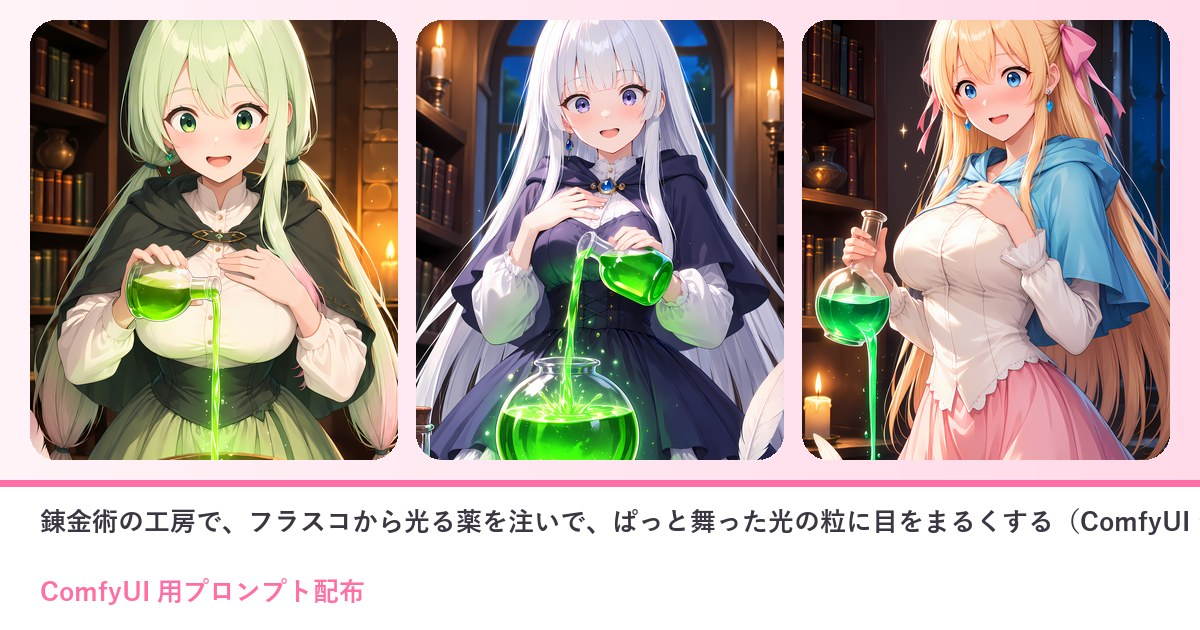
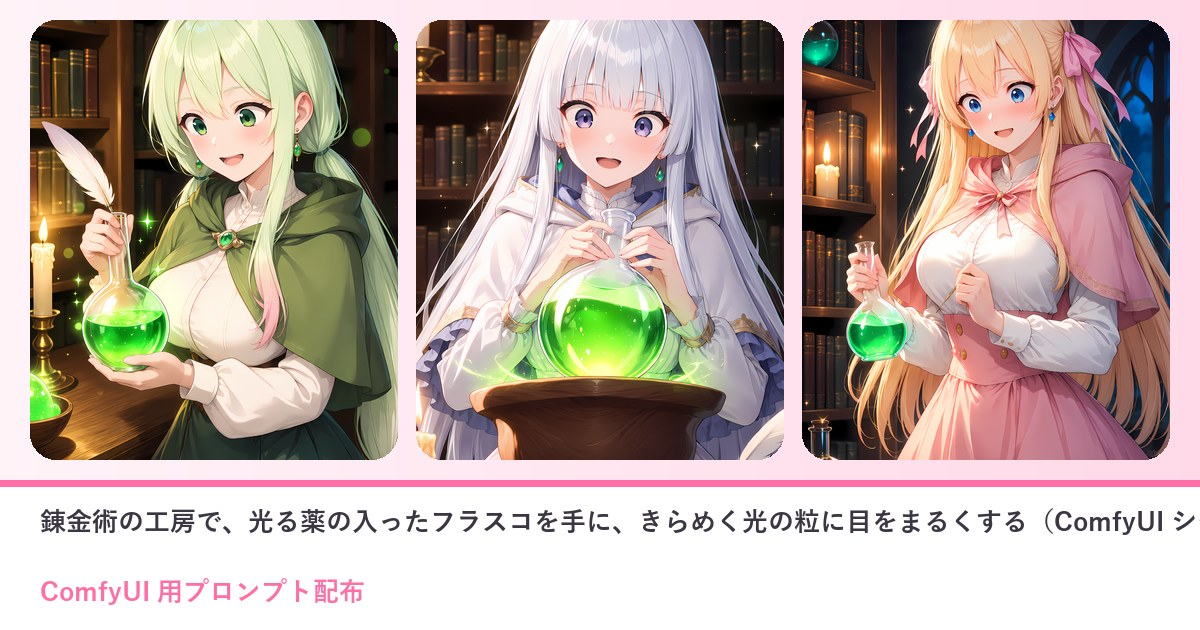
11/20 錬金術の配布ページ＝注ぐのをやめた文で3人の作例を焼き直し（るぴちゃん再生成 790247・フラスコの胴から薬が出る破綻）

diff --git a/prompts/2026-11-20-comfy-a07axycy.html b/prompts/2026-11-20-comfy-a07axycy.html
@@ -3,17 +3,17 @@
 <head>
 <meta charset="UTF-8"><meta name="robots" content="noindex, nofollow, noarchive"><meta name="referrer" content="strict-origin">
 <meta name="viewport" content="width=device-width, initial-scale=1">
-<title>錬金術の工房で、フラスコから光る薬を注いで、ぱっと舞った光の粒に目をまるくする（ComfyUI シーンのプロンプト）｜ひみつの眠り姫</title>
-<meta name="description" content="ComfyUI（Anima）に貼るだけで、ファンタジーの錬金術師の一枚に。古い本と薬びんの棚に囲まれた、ろうそくの灯る夜の工房で、フードつきのケープの女の子が、丸底フラスコを傾けて光る薬を鉢に注ぎ、ぱっと舞い上がった光の">
-<meta property="og:title" content="錬金術の工房で、フラスコから光る薬を注いで、ぱっと舞った光の粒に目をまるくする（ComfyUI シーンのプロンプト）｜ひみつの眠り姫">
-<meta property="og:description" content="ComfyUI（Anima）に貼るだけで、ファンタジーの錬金術師の一枚に。古い本と薬びんの棚に囲まれた、ろうそくの灯る夜の工房で、フードつきのケープの女の子が、丸底フラスコを傾けて光る薬を鉢に注ぎ、ぱっと舞い上がった光の">
+<title>錬金術の工房で、光る薬の入ったフラスコを手に、きらめく光の粒に目をまるくする（ComfyUI シーンのプロンプト）｜ひみつの眠り姫</title>
+<meta name="description" content="ComfyUI（Anima）に貼るだけで、ファンタジーの錬金術師の一枚に。古い本と薬びんの棚に囲まれた、ろうそくの灯る夜の工房で、フードつきのケープの女の子が、緑に光る薬の入った丸底フラスコを手に取って見つめ、まわりにき">
+<meta property="og:title" content="錬金術の工房で、光る薬の入ったフラスコを手に、きらめく光の粒に目をまるくする（ComfyUI シーンのプロンプト）｜ひみつの眠り姫">
+<meta property="og:description" content="ComfyUI（Anima）に貼るだけで、ファンタジーの錬金術師の一枚に。古い本と薬びんの棚に囲まれた、ろうそくの灯る夜の工房で、フードつきのケープの女の子が、緑に光る薬の入った丸底フラスコを手に取って見つめ、まわりにき">
 <meta property="og:type" content="article">
 <meta property="og:url" content="https://himitsu-nemurihime.github.io/prompts/2026-11-20-comfy-a07axycy.html">
 <meta property="og:image" content="https://himitsu-nemurihime.github.io/prompts/img/2026-11-20-comfy-a07axycy/og.jpg">
 <meta property="og:image:width" content="1200"><meta property="og:image:height" content="630">
 <meta name="twitter:card" content="summary_large_image">
-<meta name="twitter:title" content="錬金術の工房で、フラスコから光る薬を注いで、ぱっと舞った光の粒に目をまるくする（ComfyUI シーンのプロンプト）｜ひみつの眠り姫">
-<meta name="twitter:description" content="ComfyUI（Anima）に貼るだけで、ファンタジーの錬金術師の一枚に。古い本と薬びんの棚に囲まれた、ろうそくの灯る夜の工房で、フードつきのケープの女の子が、丸底フラスコを傾けて光る薬を鉢に注ぎ、ぱっと舞い上がった光の">
+<meta name="twitter:title" content="錬金術の工房で、光る薬の入ったフラスコを手に、きらめく光の粒に目をまるくする（ComfyUI シーンのプロンプト）｜ひみつの眠り姫">
+<meta name="twitter:description" content="ComfyUI（Anima）に貼るだけで、ファンタジーの錬金術師の一枚に。古い本と薬びんの棚に囲まれた、ろうそくの灯る夜の工房で、フードつきのケープの女の子が、緑に光る薬の入った丸底フラスコを手に取って見つめ、まわりにき">
 <meta name="twitter:image" content="https://himitsu-nemurihime.github.io/prompts/img/2026-11-20-comfy-a07axycy/og.jpg">
 <meta name="theme-color" content="#FFF3F8">
 <link rel="preconnect" href="https://fonts.googleapis.com">
@@ -68,17 +68,17 @@
 @media(max-width:560px){.ps-ba{grid-template-columns:1fr}.ps-ba .arr{transform:rotate(90deg);text-align:center}.ps-vars,.ps-vars tbody,.ps-vars tr,.ps-vars th,.ps-vars td{display:block;width:auto;white-space:normal}.ps-vars tr:first-child{display:none}.ps-vars tr{border-bottom:1px solid var(--ps-line);padding:4px 0}.ps-vars th,.ps-vars td{border:0;padding:6px 12px}}
 .ps{overflow-wrap:anywhere}.ps-vars td,.ps-vars th{overflow-wrap:anywhere}.ps img{max-width:100%}
 </style>
-<!--ps-meta {"date": "2026-11-20", "title": "錬金術の工房で、フラスコから光る薬を注いで、ぱっと舞った光の粒に目をまるくする（ComfyUI シーンのプロンプト）", "kind": "comfy", "nsfw": false, "summary": "錬金術の工房で、フラスコから光る薬を注いで目をまるくする一枚。LoRA なしでも貼るだけで綺麗に出ます。", "thumb": "img/2026-11-20-comfy-a07axycy/ex1.webp"}-->
+<!--ps-meta {"date": "2026-11-20", "title": "錬金術の工房で、光る薬の入ったフラスコを手に、きらめく光の粒に目をまるくする（ComfyUI シーンのプロンプト）", "kind": "comfy", "nsfw": false, "summary": "錬金術の工房で、光る薬のフラスコを手に目をまるくする一枚。LoRA なしでも貼るだけで綺麗に出ます。", "thumb": "img/2026-11-20-comfy-a07axycy/ex1.webp"}-->
 </head>
 <body>
 <div class="sky"></div>
 <main class="wrap">
-<section class="sec"><div class="sec-head"><h2>錬金術の工房で、フラスコから光る薬を注いで、ぱっと舞った光の粒に目をまるくする（ComfyUI シーンのプロンプト）</h2><p>ひみつの眠り姫のプロンプト配布</p></div>
-<div class="ps"><p><span class="ps-badge">ComfyUI 用</span><span class="ps-badge">2026-11-20</span></p><p class="ps-lead">ComfyUI（Anima）に貼るだけで、ファンタジーの錬金術師の一枚に。古い本と薬びんの棚に囲まれた、ろうそくの灯る夜の工房で、フードつきのケープの女の子が、丸底フラスコを傾けて光る薬を鉢に注ぎ、ぱっと舞い上がった光の粒に、目をまるくしてうれしそうに笑います。薬の光と光の粒、うしろの棚のボケまで出ます。LoRA がある人とない人の2通りの書き方を載せてあります。</p><nav class="ps-toc" aria-label="目次"><p>📑 目次</p><ol><li><a href="#sec1">作例</a></li><li><a href="#sec2">3人のおしゃべり（錬金術の工房）</a></li><li><a href="#sec3">使い方（3ステップ）</a></li><li><a href="#sec4">プロンプト</a></li><li><a href="#sec5">必要なもの（ComfyUI）</a></li><li><a href="#sec6">メモ</a></li><li><a href="#sec7">配布ルール</a></li></ol></nav><h2 id="sec1">作例</h2><div class="ps-ex"><figure><img src="img/2026-11-20-comfy-a07axycy/ex1.webp" alt="ティルナの LoRA で焼いた一枚（A のプロンプト）。夜の錬金術の工房で、若草色の長い髪を低い所で二つに結び（毛先がピンク）、深緑のフードつきケープ。片手でフラスコを傾けて緑に光る薬を木のすり鉢に注ぎ、もう片手は胸に当てて笑う。うしろに本棚とろうそく、手前に羽ペン" loading="lazy"><figcaption>ティルナの LoRA で焼いた一枚（A のプロンプト）。夜の錬金術の工房で、若草色の長い髪を低い所で二つに結び（毛先がピンク）、深緑のフードつきケープ。片手でフラスコを傾けて緑に光る薬を木のすり鉢に注ぎ、もう片手は胸に当てて笑う。うしろに本棚とろうそく、手前に羽ペン</figcaption></figure><figure><img src="img/2026-11-20-comfy-a07axycy/ex2.webp" alt="同じプロンプトをリリアの LoRA で。銀白の長い髪にぱっつん前髪、すみれ色の瞳、紺のフードつきケープ。フラスコを傾けて、丸いガラスの大きな瓶に緑の薬を注ぐ。うしろに夜の青い窓と本棚、両わきにろうそく" loading="lazy"><figcaption>同じプロンプトをリリアの LoRA で。銀白の長い髪にぱっつん前髪、すみれ色の瞳、紺のフードつきケープ。フラスコを傾けて、丸いガラスの大きな瓶に緑の薬を注ぐ。うしろに夜の青い窓と本棚、両わきにろうそく</figcaption></figure><figure><img src="img/2026-11-20-comfy-a07axycy/ex3.webp" alt="同じプロンプトをセフィリアの LoRA で。金色の長い髪にピンクのリボン、水色のフードつきケープにピンクのスカート。フラスコから木の鉢に緑の薬を注いで、もう片手は胸に。左にろうそくと羽ペン、うしろに本棚" loading="lazy"><figcaption>同じプロンプトをセフィリアの LoRA で。金色の長い髪にピンクのリボン、水色のフードつきケープにピンクのスカート。フラスコから木の鉢に緑の薬を注いで、もう片手は胸に。左にろうそくと羽ペン、うしろに本棚</figcaption></figure></div><p style="font-size:.82rem;color:var(--ps-ink)">※作例の画像の転載・保存しての再配布はご遠慮ください。</p><h2 id="sec2">3人のおしゃべり（錬金術の工房）</h2><div class="ps-chat"><img src="img/2026-11-20-comfy-a07axycy/talk_lilia_shy.webp" alt="リリア" loading="lazy"><div><div class="who">リリア</div><div class="bub">……フラスコの中で、光る薬がゆっくり回っています。きれいです</div></div></div><div class="ps-chat r"><img src="img/2026-11-20-comfy-a07axycy/talk_sefi_normal.webp" alt="セフィリア" loading="lazy"><div><div class="who">セフィリア</div><div class="bub">ここは、わたくしたちの錬金術の工房なのです。今日の調合係は、ティルナにお任せするのです</div></div></div><div class="ps-chat r"><img src="img/2026-11-20-comfy-a07axycy/talk_tiru_happy.webp" alt="ティルナ" loading="lazy"><div><div class="who">ティルナ</div><div class="bub">まかせて！ この光る薬を、フラスコからとくとく注いで……わっ、光の粒がぱあって舞った！</div></div></div><div class="ps-chat"><img src="img/2026-11-20-comfy-a07axycy/talk_lilia_shy.webp" alt="リリア" loading="lazy"><div><div class="who">リリア</div><div class="bub">……ティルナちゃん、レシピの分量は、見ていましたか</div></div></div><div class="ps-chat r"><img src="img/2026-11-20-comfy-a07axycy/talk_tiru_happy.webp" alt="ティルナ" loading="lazy"><div><div class="who">ティルナ</div><div class="bub">見てない！ でも、こんなにきらきらしてるんだから、成功だよ！</div></div></div><div class="ps-chat r"><img src="img/2026-11-20-comfy-a07axycy/talk_sefi_normal.webp" alt="セフィリア" loading="lazy"><div><div class="who">セフィリア</div><div class="bub">作例のティルナは、深緑のフードつきケープ。片手で緑の薬をすり鉢にとくとく注いで、もう片手は胸に当てて笑っているのです</div></div></div><div class="ps-chat"><img src="img/2026-11-20-comfy-a07axycy/talk_lilia_shy.webp" alt="リリア" loading="lazy"><div><div class="who">リリア</div><div class="bub">……今日の配布は、ComfyUI（Anima）に貼るだけで、この夜の工房の一枚になるシーンのプロンプトです</div></div></div><div class="ps-chat r"><img src="img/2026-11-20-comfy-a07axycy/talk_sefi_normal.webp" alt="セフィリア" loading="lazy"><div><div class="who">セフィリア</div><div class="bub">うちの子に合わせるときは、先頭の一行に髪と目の色を書くだけ。本棚もすり鉢も羽ペンも、文のほうにもう入っているのです</div></div></div><div class="ps-chat r"><img src="img/2026-11-20-comfy-a07axycy/talk_tiru_happy.webp" alt="ティルナ" loading="lazy"><div><div class="who">ティルナ</div><div class="bub">LoRA を作ってない子でも大丈夫！ 名前の代わりに見た目を書く版が、ページの下にあるの！</div></div></div><div class="ps-chat"><img src="img/2026-11-20-comfy-a07axycy/talk_lilia_shy.webp" alt="リリア" loading="lazy"><div><div class="who">リリア</div><div class="bub">……同じ文で焼いたわたしは、紺のケープでした。フラスコを傾けて、丸いガラスの大きな瓶に注いでいました。うしろの窓は、夜の青です</div></div></div><div class="ps-chat r"><img src="img/2026-11-20-comfy-a07axycy/talk_sefi_normal.webp" alt="セフィリア" loading="lazy"><div><div class="who">セフィリア</div><div class="bub">わたくしは水色のケープに、ピンクのスカート。木の鉢に注いでいたのです。すぐそばで、ろうそくが灯っていたのです</div></div></div><div class="ps-chat r"><img src="img/2026-11-20-comfy-a07axycy/talk_tiru_thinking.webp" alt="ティルナ" loading="lazy"><div><div class="who">ティルナ</div><div class="bub">ねえ、この薬って、飲んだら何になるのかな？ セフィー、ひと口どう？</div></div></div><div class="ps-chat r"><img src="img/2026-11-20-comfy-a07axycy/talk_sefi_normal.webp" alt="セフィリア" loading="lazy"><div><div class="who">セフィリア</div><div class="bub">えんりょするのです。……でも三人で、ちがう色の薬を一本ずつ作って並べるのは、賛成なのです。あなたの子の薬も、となりに並べたいのです</div></div></div><h2 id="sec3">使い方（3ステップ）</h2><ol class="ps-steps"><li>ComfyUI で Anima のモデルを読み、基本の画像生成（テキストから画像）の画面にする</li><li>下の A（LoRA なし）か B（LoRA あり）のポジティブと、ネガティブをワンタップでコピーして貼る</li><li>「推奨値」の大きさ・steps・CFG にして生成する（できれば 1.5 倍の hires fix も）</li></ol><h2 id="sec4">プロンプト</h2><div class="ps-note" style="margin-bottom:12px"><b>変えるのは1行目の色の付いたところだけ</b>（先頭の <code>1girl, solo</code> などはそのまま）<ul><li>使うプロンプトは2通り＝<b>A. LoRA を持っていない人</b>／<b>B. 自分のキャラの LoRA を持っている人</b>。どちらも丸ごとコピーして貼るだけ</li><li>A は<b>そのまま</b>でも綺麗な女の子で出ます。自分のキャラにするなら1行目の髪の色・髪型・目の色を書き換えるだけ</li><li>B は1行目の <code>your_lora_trigger</code> を自分の LoRA のトリガー語に置きかえるだけ（LoRA の強さは下の表）</li><li>2行目から下（シーン）と、ネガティブプロンプトは変えずにそのまま</li><li>🚫 版権キャラの名前・版権キャラの LoRA を入れて使うのは固く禁止です（下の「配布ルール」）</li></ul></div><h3 style="margin:14px 0 8px">A. LoRA を持っていない人（そのままでもOK）</h3><div class="ps-box"><button class="ps-copy" type="button" data-target="ps-prompt">📋 ワンタップでコピー</button><p style="margin:0 0 8px;font-size:.82rem;color:var(--ps-a)">ポジティブプロンプト</p><pre>1girl, solo, <mark class="ps-in" data-key="キャラの行">long hair, green hair, pink hair, gradient hair, green eyes, low twintails</mark>
-masterpiece, best quality, score_7, safe, cowboy shot, standing, alchemy, round-bottom flask, potion, glowing liquid, green liquid, pouring, bottle, holding bottle, hand on own chest, wide-eyed, smile, open mouth, blush, sparkle, hooded capelet, capelet, long sleeves, frilled skirt, earrings, bookshelf, shelf, mortar (bowl), quill, candle, indoors, night, magic, warm colors, color contrast, depth of field, bokeh, light particles</pre><textarea class="ps-copyarea" id="ps-prompt" readonly aria-hidden="true" tabindex="-1">1girl, solo, long hair, green hair, pink hair, gradient hair, green eyes, low twintails
-masterpiece, best quality, score_7, safe, cowboy shot, standing, alchemy, round-bottom flask, potion, glowing liquid, green liquid, pouring, bottle, holding bottle, hand on own chest, wide-eyed, smile, open mouth, blush, sparkle, hooded capelet, capelet, long sleeves, frilled skirt, earrings, bookshelf, shelf, mortar (bowl), quill, candle, indoors, night, magic, warm colors, color contrast, depth of field, bokeh, light particles</textarea></div><h3 style="margin:18px 0 8px">B. 自分のキャラの LoRA を持っている人</h3><div class="ps-box"><button class="ps-copy" type="button" data-target="ps-prompt-lora">📋 ワンタップでコピー</button><p style="margin:0 0 8px;font-size:.82rem;color:var(--ps-a)">ポジティブプロンプト（LoRA 用）</p><pre>masterpiece, best quality, score_7, year 2025, highres, absurdres, <mark class="ps-in" data-key="キャラの行">your_lora_trigger</mark>, 1girl, solo,
-cowboy shot, standing, alchemy, round-bottom flask, potion, glowing liquid, green liquid, pouring, bottle, holding bottle, hand on own chest, wide-eyed, smile, open mouth, blush, sparkle, hooded capelet, capelet, long sleeves, frilled skirt, earrings, bookshelf, shelf, mortar (bowl), quill, candle, indoors, night, magic, warm colors, color contrast, depth of field, bokeh, light particles</pre><textarea class="ps-copyarea" id="ps-prompt-lora" readonly aria-hidden="true" tabindex="-1">masterpiece, best quality, score_7, year 2025, highres, absurdres, your_lora_trigger, 1girl, solo,
-cowboy shot, standing, alchemy, round-bottom flask, potion, glowing liquid, green liquid, pouring, bottle, holding bottle, hand on own chest, wide-eyed, smile, open mouth, blush, sparkle, hooded capelet, capelet, long sleeves, frilled skirt, earrings, bookshelf, shelf, mortar (bowl), quill, candle, indoors, night, magic, warm colors, color contrast, depth of field, bokeh, light particles</textarea></div><table class="ps-vars" style="margin-top:10px"><tr><th>LoRA のつなぎ方</th><td colspan="2">Load Diffusion Model（Anima）のうしろに LoraLoaderModelOnly を1つ足す（CLIP にはつながない）</td></tr><tr><th>LoRA の強さ（strength_model）</th><td colspan="2">0.8〜0.9（作例は 0.85）</td></tr><tr><th>1行目</th><td colspan="2">your_lora_trigger を自分の LoRA のトリガー語に置きかえる（髪や目の色は LoRA が覚えているので書かなくてOK）</td></tr></table><div style="height:12px"></div><div class="ps-box"><button class="ps-copy" type="button" data-target="ps-negative-lora">📋 ワンタップでコピー</button><p style="margin:0 0 8px;font-size:.82rem;color:var(--ps-a)">ネガティブプロンプト（B 用）</p><pre>lowres, bad quality, worst quality, score_1, score_2, score_3, poorly drawn, flat color, sketch, jpeg artifacts, mutated, ugly, disfigured, long body, bad anatomy, bad hands, missing fingers, extra fingers, simple background, transparent background, blurry, furry, child, loli, chibi, baby face, signature, watermark, artist name, username, web address, patreon username, logo, detailed pupils, sparkling eyes, twinkling eyes, glowing pupils, glowing eyes, star-shaped pupils, colored highlight in pupil, pointy ears, elf ears, extra fingers, missing fingers, fused fingers, bad hands, deformed hands, extra arms, extra legs, text, letters, signboard, sign, banner, label, japanese text, numbers, mirror, reflection, window, glass reflection, 2girls, male, crowd, people, bag, umbrella, coat, hat, witch hat, outdoors, snow, christmas tree, cat, animal, fire, extra hands, disembodied limb, disembodied hand, chinese text, korean text, kanji, hiragana, katakana, calligraphy</pre><textarea class="ps-copyarea" id="ps-negative-lora" readonly aria-hidden="true" tabindex="-1">lowres, bad quality, worst quality, score_1, score_2, score_3, poorly drawn, flat color, sketch, jpeg artifacts, mutated, ugly, disfigured, long body, bad anatomy, bad hands, missing fingers, extra fingers, simple background, transparent background, blurry, furry, child, loli, chibi, baby face, signature, watermark, artist name, username, web address, patreon username, logo, detailed pupils, sparkling eyes, twinkling eyes, glowing pupils, glowing eyes, star-shaped pupils, colored highlight in pupil, pointy ears, elf ears, extra fingers, missing fingers, fused fingers, bad hands, deformed hands, extra arms, extra legs, text, letters, signboard, sign, banner, label, japanese text, numbers, mirror, reflection, window, glass reflection, 2girls, male, crowd, people, bag, umbrella, coat, hat, witch hat, outdoors, snow, christmas tree, cat, animal, fire, extra hands, disembodied limb, disembodied hand, chinese text, korean text, kanji, hiragana, katakana, calligraphy</textarea></div><div class="ps-note" style="margin-top:10px"><b>作例の絵（ポストの絵）は、この B のポジティブとネガティブで作りました</b>（<code>your_lora_trigger</code> のところに、その子の LoRA のトリガー語と見た目の語を入れただけ・語の順番もこのまま）。そのあと手だけを描き直す仕上げと 4K への拡大をしています。<br>ネガティブの「pointy ears、elf ears」は作例の子のために足した語です。自分のキャラに合わなければ消してOK。</div><div style="height:12px"></div><div class="ps-box"><button class="ps-copy" type="button" data-target="ps-negative">📋 ワンタップでコピー</button><p style="margin:0 0 8px;font-size:.82rem;color:var(--ps-a)">ネガティブプロンプト（A 用）</p><pre>worst quality, low quality, lowres, bad anatomy, bad hands, extra fingers, missing fingers, fused fingers, blurry, jpeg artifacts, text, watermark, signature, logo, extra person, multiple girls, cropped, out of frame, extra fingers, missing fingers, fused fingers, bad hands, deformed hands, extra arms, extra legs, text, letters, signboard, sign, banner, label, japanese text, numbers, mirror, reflection, window, glass reflection, 2girls, male, crowd, people, bag, umbrella, coat, hat, witch hat, outdoors, snow, christmas tree, cat, animal, fire, extra hands, disembodied limb, disembodied hand, chinese text, korean text, kanji, hiragana, katakana, calligraphy</pre><textarea class="ps-copyarea" id="ps-negative" readonly aria-hidden="true" tabindex="-1">worst quality, low quality, lowres, bad anatomy, bad hands, extra fingers, missing fingers, fused fingers, blurry, jpeg artifacts, text, watermark, signature, logo, extra person, multiple girls, cropped, out of frame, extra fingers, missing fingers, fused fingers, bad hands, deformed hands, extra arms, extra legs, text, letters, signboard, sign, banner, label, japanese text, numbers, mirror, reflection, window, glass reflection, 2girls, male, crowd, people, bag, umbrella, coat, hat, witch hat, outdoors, snow, christmas tree, cat, animal, fire, extra hands, disembodied limb, disembodied hand, chinese text, korean text, kanji, hiragana, katakana, calligraphy</textarea></div><h2 id="sec5">必要なもの（ComfyUI）</h2><div class="ps-note">🧩 <b>カスタムノードは使っていません</b>。LoRA が無くても大丈夫（A のプロンプト）。ComfyUI の基本の画像生成（テキストから画像）に、ポジティブ・ネガティブを貼って、下の推奨値にするだけです。LoRA を使う人は「LoraLoaderModelOnly」を1つ足すだけ（B のプロンプト）。</div><table class="ps-vars" style="margin-top:12px"><tr><th>モデル</th><th>ファイル</th><th>置き場</th></tr><tr><td>Anima 系のモデル（本体）</td><td>お好きな Anima 系のモデル</td><td><code>models/diffusion_models</code></td></tr><tr><td>テキストエンコーダ</td><td>Anima と一緒に配られているもの</td><td><code>models/text_encoders</code></td></tr><tr><td>VAE</td><td>Anima と一緒に配られているもの</td><td><code>models/vae</code></td></tr></table><h2>推奨値</h2><table class="ps-vars"><tr><th>大きさ</th><td colspan="2">864×1536（縦長）</td></tr><tr><th>steps</th><td colspan="2">30</td></tr><tr><th>CFG</th><td colspan="2">4.5</td></tr><tr><th>sampler</th><td colspan="2">er_sde</td></tr><tr><th>scheduler</th><td colspan="2">beta</td></tr><tr><th>hires fix（任意）</th><td colspan="2">1.5 倍に拡大して denoise 0.4・同じ steps と CFG（試し焼きはこれ）</td></tr><tr><th>LoRA</th><td colspan="2">無くてOK（A のプロンプト）。自分のキャラの LoRA があれば B のプロンプトで</td></tr></table><h2 id="sec6">メモ</h2><ul class="ps-rules"><li>いちばん上の行（髪の色・長さ・目の色）だけ、あなたの子に合わせて書き換えてください。2行目から下（服・工房）は変えなくて大丈夫です。</li><li>縦長（864×1536）で、太ももから上の構図（cowboy shot）です。片手で光る緑の薬をフラスコから注ぎ、もう片手は胸に当てます（alchemy, round-bottom flask, potion, glowing liquid, green liquid, pouring, bottle, holding bottle, hand on own chest）、目をまるくして笑います（wide-eyed, smile, open mouth, blush, sparkle）。作例では3人とも、片手でフラスコを傾けて緑に光る薬を注ぎ、もう片手を胸に当てて笑いました。注ぐ先は子ごとに変わり、木のすり鉢、丸いガラスの大きな瓶、木の鉢がありました。うしろの本棚とろうそくの灯り、羽ペンは3人とも写りました。</li><li>服は hooded capelet・capelet・long sleeves・frilled skirt。小物は earrings です。</li><li>場所は bookshelf・shelf・mortar (bowl)・quill・candle・indoors・night・magic、色は warm colors、ボケと光の粒は depth of field・bokeh・light particles です。</li><li>びんのラベルや本の背の字が出ないように text・label・letters を、ガラスの映り込みが出ないように glass reflection・mirror・reflection を、魔女の帽子をかぶらないように hat・witch hat を、火が大きく出ないように fire を、外や雪にならないように outdoors・snow を NEG に入れてあります。</li></ul><h2 id="sec7">配布ルール</h2><ul class="ps-rules"><li>⭕ プロンプトの改変は自由です。</li><li>⭕ 生成した画像は SNS に投稿して大丈夫です。</li><li>❌ プロンプト文そのものの転載・再配布・販売はしないでください。</li><li>❌ 自作のプロンプトだと名乗ることはやめてください。</li><li>❌ このページの作例画像の無断転載はしないでください。</li><li class="ps-rights">🚫 <b>アニメ・漫画・ゲームなどの版権キャラクター（著作権・商標のあるキャラ）、他の人のキャラクターやイラスト、実在の人物の写真を添付画像にして使うことは固く禁止します。</b>版権キャラの名前や、版権キャラの LoRA を入れて使うことも禁止です。</li><li>✅ 添付してよいのは、<b>自分で作ったキャラクター・自分が権利を持つ画像</b>（または権利者から使ってよいと言われた画像）だけです。</li><li>⚠ 生成した画像の使い方（投稿・公開など）は、使った人の責任でお願いします。権利の問題が起きても、配布者は責任を負えません。</li><li>💌 使ったら <b>#眠り姫プロンプト</b> を付けて見せてくれたら、とても嬉しいです（任意です）。</li></ul><p class="ps-bn-ask" style="margin:22px 0 0;font-size:.92rem">📚 これまでの配布プロンプト（バックナンバー）が見たい方は、直接ひみつの眠り姫までお気軽にお問い合わせください。</p></div>
+<section class="sec"><div class="sec-head"><h2>錬金術の工房で、光る薬の入ったフラスコを手に、きらめく光の粒に目をまるくする（ComfyUI シーンのプロンプト）</h2><p>ひみつの眠り姫のプロンプト配布</p></div>
+<div class="ps"><p><span class="ps-badge">ComfyUI 用</span><span class="ps-badge">2026-11-20</span></p><p class="ps-lead">ComfyUI（Anima）に貼るだけで、ファンタジーの錬金術師の一枚に。古い本と薬びんの棚に囲まれた、ろうそくの灯る夜の工房で、フードつきのケープの女の子が、緑に光る薬の入った丸底フラスコを手に取って見つめ、まわりにきらめく光の粒に、目をまるくしてうれしそうに笑います。薬の光と光の粒、うしろの棚のボケまで出ます。LoRA がある人とない人の2通りの書き方を載せてあります。</p><nav class="ps-toc" aria-label="目次"><p>📑 目次</p><ol><li><a href="#sec1">作例</a></li><li><a href="#sec2">3人のおしゃべり（錬金術の工房）</a></li><li><a href="#sec3">使い方（3ステップ）</a></li><li><a href="#sec4">プロンプト</a></li><li><a href="#sec5">必要なもの（ComfyUI）</a></li><li><a href="#sec6">メモ</a></li><li><a href="#sec7">配布ルール</a></li></ol></nav><h2 id="sec1">作例</h2><div class="ps-ex"><figure><img src="img/2026-11-20-comfy-a07axycy/ex1.webp" alt="ティルナの LoRA で焼いた一枚（A のプロンプト）。夜の錬金術の工房で、若草色の長い髪を低い所で二つに結び（毛先がピンク）、深緑のフードつきケープ。緑に光る薬の入った丸底フラスコの首を羽ペンといっしょに片手で持ち、もう片手で底を支えて、目をまるくして笑う。左にろうそくと光る薬の鉢、うしろに本棚" loading="lazy"><figcaption>ティルナの LoRA で焼いた一枚（A のプロンプト）。夜の錬金術の工房で、若草色の長い髪を低い所で二つに結び（毛先がピンク）、深緑のフードつきケープ。緑に光る薬の入った丸底フラスコの首を羽ペンといっしょに片手で持ち、もう片手で底を支えて、目をまるくして笑う。左にろうそくと光る薬の鉢、うしろに本棚</figcaption></figure><figure><img src="img/2026-11-20-comfy-a07axycy/ex2.webp" alt="同じプロンプトをリリアの LoRA で。銀白の長い髪にぱっつん前髪、すみれ色の瞳、白いフードつきケープ。光る緑の薬の入ったフラスコの首を両手で包んで、大きな木の鉢の上に掲げる。うしろに本棚とろうそく、手前に羽ペンと小さなフラスコ" loading="lazy"><figcaption>同じプロンプトをリリアの LoRA で。銀白の長い髪にぱっつん前髪、すみれ色の瞳、白いフードつきケープ。光る緑の薬の入ったフラスコの首を両手で包んで、大きな木の鉢の上に掲げる。うしろに本棚とろうそく、手前に羽ペンと小さなフラスコ</figcaption></figure><figure><img src="img/2026-11-20-comfy-a07axycy/ex3.webp" alt="同じプロンプトをセフィリアの LoRA で。金色の長い髪にピンクのリボン、ピンクのフードつきケープにピンクのスカート。光る緑の薬の入ったフラスコの首を片手で持ち、もう片手には細い羽ペン。うしろに本棚とろうそく" loading="lazy"><figcaption>同じプロンプトをセフィリアの LoRA で。金色の長い髪にピンクのリボン、ピンクのフードつきケープにピンクのスカート。光る緑の薬の入ったフラスコの首を片手で持ち、もう片手には細い羽ペン。うしろに本棚とろうそく</figcaption></figure></div><p style="font-size:.82rem;color:var(--ps-ink)">※作例の画像の転載・保存しての再配布はご遠慮ください。</p><h2 id="sec2">3人のおしゃべり（錬金術の工房）</h2><div class="ps-chat"><img src="img/2026-11-20-comfy-a07axycy/talk_lilia_shy.webp" alt="リリア" loading="lazy"><div><div class="who">リリア</div><div class="bub">……フラスコの中で、光る薬がゆっくり回っています。きれいです</div></div></div><div class="ps-chat r"><img src="img/2026-11-20-comfy-a07axycy/talk_sefi_normal.webp" alt="セフィリア" loading="lazy"><div><div class="who">セフィリア</div><div class="bub">ここは、わたくしたちの錬金術の工房なのです。今日の調合係は、ティルナにお任せするのです</div></div></div><div class="ps-chat r"><img src="img/2026-11-20-comfy-a07axycy/talk_tiru_happy.webp" alt="ティルナ" loading="lazy"><div><div class="who">ティルナ</div><div class="bub">まかせて！ この光る薬をフラスコに入れて、ふって……わっ、フラスコのまわりに光の粒がぱあって舞った！</div></div></div><div class="ps-chat"><img src="img/2026-11-20-comfy-a07axycy/talk_lilia_shy.webp" alt="リリア" loading="lazy"><div><div class="who">リリア</div><div class="bub">……ティルナちゃん、レシピの分量は、見ていましたか</div></div></div><div class="ps-chat r"><img src="img/2026-11-20-comfy-a07axycy/talk_tiru_happy.webp" alt="ティルナ" loading="lazy"><div><div class="who">ティルナ</div><div class="bub">見てない！ でも、こんなにきらきらしてるんだから、成功だよ！</div></div></div><div class="ps-chat r"><img src="img/2026-11-20-comfy-a07axycy/talk_sefi_normal.webp" alt="セフィリア" loading="lazy"><div><div class="who">セフィリア</div><div class="bub">作例のティルナは、深緑のフードつきケープ。光る緑の薬のフラスコを、羽ペンといっしょに持って、目をまるくして笑っているのです</div></div></div><div class="ps-chat"><img src="img/2026-11-20-comfy-a07axycy/talk_lilia_shy.webp" alt="リリア" loading="lazy"><div><div class="who">リリア</div><div class="bub">……今日の配布は、ComfyUI（Anima）に貼るだけで、この夜の工房の一枚になるシーンのプロンプトです</div></div></div><div class="ps-chat r"><img src="img/2026-11-20-comfy-a07axycy/talk_sefi_normal.webp" alt="セフィリア" loading="lazy"><div><div class="who">セフィリア</div><div class="bub">うちの子に合わせるときは、先頭の一行に髪と目の色を書くだけ。本棚もろうそくも羽ペンも、文のほうにもう入っているのです</div></div></div><div class="ps-chat r"><img src="img/2026-11-20-comfy-a07axycy/talk_tiru_happy.webp" alt="ティルナ" loading="lazy"><div><div class="who">ティルナ</div><div class="bub">LoRA を作ってない子でも大丈夫！ 名前の代わりに見た目を書く版が、ページの下にあるの！</div></div></div><div class="ps-chat"><img src="img/2026-11-20-comfy-a07axycy/talk_lilia_shy.webp" alt="リリア" loading="lazy"><div><div class="who">リリア</div><div class="bub">……同じ文で焼いたわたしは、白いケープでした。フラスコの首を両手で包んで、大きな木の鉢の上に掲げていました</div></div></div><div class="ps-chat r"><img src="img/2026-11-20-comfy-a07axycy/talk_sefi_normal.webp" alt="セフィリア" loading="lazy"><div><div class="who">セフィリア</div><div class="bub">わたくしはピンクのケープに、ピンクのスカート。フラスコを片手に、もう片方の手には羽ペンを持っていたのです</div></div></div><div class="ps-chat r"><img src="img/2026-11-20-comfy-a07axycy/talk_tiru_thinking.webp" alt="ティルナ" loading="lazy"><div><div class="who">ティルナ</div><div class="bub">ねえ、この薬って、飲んだら何になるのかな？ セフィー、ひと口どう？</div></div></div><div class="ps-chat r"><img src="img/2026-11-20-comfy-a07axycy/talk_sefi_normal.webp" alt="セフィリア" loading="lazy"><div><div class="who">セフィリア</div><div class="bub">えんりょするのです。……でも三人で、ちがう色の薬を一本ずつ作って並べるのは、賛成なのです。あなたの子の薬も、となりに並べたいのです</div></div></div><h2 id="sec3">使い方（3ステップ）</h2><ol class="ps-steps"><li>ComfyUI で Anima のモデルを読み、基本の画像生成（テキストから画像）の画面にする</li><li>下の A（LoRA なし）か B（LoRA あり）のポジティブと、ネガティブをワンタップでコピーして貼る</li><li>「推奨値」の大きさ・steps・CFG にして生成する（できれば 1.5 倍の hires fix も）</li></ol><h2 id="sec4">プロンプト</h2><div class="ps-note" style="margin-bottom:12px"><b>変えるのは1行目の色の付いたところだけ</b>（先頭の <code>1girl, solo</code> などはそのまま）<ul><li>使うプロンプトは2通り＝<b>A. LoRA を持っていない人</b>／<b>B. 自分のキャラの LoRA を持っている人</b>。どちらも丸ごとコピーして貼るだけ</li><li>A は<b>そのまま</b>でも綺麗な女の子で出ます。自分のキャラにするなら1行目の髪の色・髪型・目の色を書き換えるだけ</li><li>B は1行目の <code>your_lora_trigger</code> を自分の LoRA のトリガー語に置きかえるだけ（LoRA の強さは下の表）</li><li>2行目から下（シーン）と、ネガティブプロンプトは変えずにそのまま</li><li>🚫 版権キャラの名前・版権キャラの LoRA を入れて使うのは固く禁止です（下の「配布ルール」）</li></ul></div><h3 style="margin:14px 0 8px">A. LoRA を持っていない人（そのままでもOK）</h3><div class="ps-box"><button class="ps-copy" type="button" data-target="ps-prompt">📋 ワンタップでコピー</button><p style="margin:0 0 8px;font-size:.82rem;color:var(--ps-a)">ポジティブプロンプト</p><pre>1girl, solo, <mark class="ps-in" data-key="キャラの行">long hair, green hair, pink hair, gradient hair, green eyes, low twintails</mark>
+masterpiece, best quality, score_7, safe, cowboy shot, standing, alchemy, round-bottom flask, potion, glowing liquid, green liquid, holding flask, looking at object, wide-eyed, smile, open mouth, blush, sparkle, hooded capelet, capelet, long sleeves, frilled skirt, earrings, bookshelf, shelf, mortar (bowl), quill, candle, indoors, night, magic, warm colors, color contrast, depth of field, bokeh, light particles</pre><textarea class="ps-copyarea" id="ps-prompt" readonly aria-hidden="true" tabindex="-1">1girl, solo, long hair, green hair, pink hair, gradient hair, green eyes, low twintails
+masterpiece, best quality, score_7, safe, cowboy shot, standing, alchemy, round-bottom flask, potion, glowing liquid, green liquid, holding flask, looking at object, wide-eyed, smile, open mouth, blush, sparkle, hooded capelet, capelet, long sleeves, frilled skirt, earrings, bookshelf, shelf, mortar (bowl), quill, candle, indoors, night, magic, warm colors, color contrast, depth of field, bokeh, light particles</textarea></div><h3 style="margin:18px 0 8px">B. 自分のキャラの LoRA を持っている人</h3><div class="ps-box"><button class="ps-copy" type="button" data-target="ps-prompt-lora">📋 ワンタップでコピー</button><p style="margin:0 0 8px;font-size:.82rem;color:var(--ps-a)">ポジティブプロンプト（LoRA 用）</p><pre>masterpiece, best quality, score_7, year 2025, highres, absurdres, <mark class="ps-in" data-key="キャラの行">your_lora_trigger</mark>, 1girl, solo,
+cowboy shot, standing, alchemy, round-bottom flask, potion, glowing liquid, green liquid, holding flask, looking at object, wide-eyed, smile, open mouth, blush, sparkle, hooded capelet, capelet, long sleeves, frilled skirt, earrings, bookshelf, shelf, mortar (bowl), quill, candle, indoors, night, magic, warm colors, color contrast, depth of field, bokeh, light particles</pre><textarea class="ps-copyarea" id="ps-prompt-lora" readonly aria-hidden="true" tabindex="-1">masterpiece, best quality, score_7, year 2025, highres, absurdres, your_lora_trigger, 1girl, solo,
+cowboy shot, standing, alchemy, round-bottom flask, potion, glowing liquid, green liquid, holding flask, looking at object, wide-eyed, smile, open mouth, blush, sparkle, hooded capelet, capelet, long sleeves, frilled skirt, earrings, bookshelf, shelf, mortar (bowl), quill, candle, indoors, night, magic, warm colors, color contrast, depth of field, bokeh, light particles</textarea></div><table class="ps-vars" style="margin-top:10px"><tr><th>LoRA のつなぎ方</th><td colspan="2">Load Diffusion Model（Anima）のうしろに LoraLoaderModelOnly を1つ足す（CLIP にはつながない）</td></tr><tr><th>LoRA の強さ（strength_model）</th><td colspan="2">0.8〜0.9（作例は 0.85）</td></tr><tr><th>1行目</th><td colspan="2">your_lora_trigger を自分の LoRA のトリガー語に置きかえる（髪や目の色は LoRA が覚えているので書かなくてOK）</td></tr></table><div style="height:12px"></div><div class="ps-box"><button class="ps-copy" type="button" data-target="ps-negative-lora">📋 ワンタップでコピー</button><p style="margin:0 0 8px;font-size:.82rem;color:var(--ps-a)">ネガティブプロンプト（B 用）</p><pre>lowres, bad quality, worst quality, score_1, score_2, score_3, poorly drawn, flat color, sketch, jpeg artifacts, mutated, ugly, disfigured, long body, bad anatomy, bad hands, missing fingers, extra fingers, simple background, transparent background, blurry, furry, child, loli, chibi, baby face, signature, watermark, artist name, username, web address, patreon username, logo, detailed pupils, sparkling eyes, twinkling eyes, glowing pupils, glowing eyes, star-shaped pupils, colored highlight in pupil, pointy ears, elf ears, extra fingers, missing fingers, fused fingers, bad hands, deformed hands, extra arms, extra legs, text, letters, signboard, sign, banner, label, japanese text, numbers, mirror, reflection, window, glass reflection, 2girls, male, crowd, people, bag, umbrella, coat, hat, witch hat, outdoors, snow, christmas tree, cat, animal, fire, extra hands, disembodied limb, disembodied hand, cork, stopper, pouring, liquid on body, wet clothes, bottle, cauldron, chinese text, korean text, kanji, hiragana, katakana, calligraphy</pre><textarea class="ps-copyarea" id="ps-negative-lora" readonly aria-hidden="true" tabindex="-1">lowres, bad quality, worst quality, score_1, score_2, score_3, poorly drawn, flat color, sketch, jpeg artifacts, mutated, ugly, disfigured, long body, bad anatomy, bad hands, missing fingers, extra fingers, simple background, transparent background, blurry, furry, child, loli, chibi, baby face, signature, watermark, artist name, username, web address, patreon username, logo, detailed pupils, sparkling eyes, twinkling eyes, glowing pupils, glowing eyes, star-shaped pupils, colored highlight in pupil, pointy ears, elf ears, extra fingers, missing fingers, fused fingers, bad hands, deformed hands, extra arms, extra legs, text, letters, signboard, sign, banner, label, japanese text, numbers, mirror, reflection, window, glass reflection, 2girls, male, crowd, people, bag, umbrella, coat, hat, witch hat, outdoors, snow, christmas tree, cat, animal, fire, extra hands, disembodied limb, disembodied hand, cork, stopper, pouring, liquid on body, wet clothes, bottle, cauldron, chinese text, korean text, kanji, hiragana, katakana, calligraphy</textarea></div><div class="ps-note" style="margin-top:10px"><b>作例の絵（ポストの絵）は、この B のポジティブとネガティブで作りました</b>（<code>your_lora_trigger</code> のところに、その子の LoRA のトリガー語と見た目の語を入れただけ・語の順番もこのまま）。そのあと手だけを描き直す仕上げと 4K への拡大をしています。<br>ネガティブの「pointy ears、elf ears」は作例の子のために足した語です。自分のキャラに合わなければ消してOK。</div><div style="height:12px"></div><div class="ps-box"><button class="ps-copy" type="button" data-target="ps-negative">📋 ワンタップでコピー</button><p style="margin:0 0 8px;font-size:.82rem;color:var(--ps-a)">ネガティブプロンプト（A 用）</p><pre>worst quality, low quality, lowres, bad anatomy, bad hands, extra fingers, missing fingers, fused fingers, blurry, jpeg artifacts, text, watermark, signature, logo, extra person, multiple girls, cropped, out of frame, extra fingers, missing fingers, fused fingers, bad hands, deformed hands, extra arms, extra legs, text, letters, signboard, sign, banner, label, japanese text, numbers, mirror, reflection, window, glass reflection, 2girls, male, crowd, people, bag, umbrella, coat, hat, witch hat, outdoors, snow, christmas tree, cat, animal, fire, extra hands, disembodied limb, disembodied hand, cork, stopper, pouring, liquid on body, wet clothes, bottle, cauldron, chinese text, korean text, kanji, hiragana, katakana, calligraphy</pre><textarea class="ps-copyarea" id="ps-negative" readonly aria-hidden="true" tabindex="-1">worst quality, low quality, lowres, bad anatomy, bad hands, extra fingers, missing fingers, fused fingers, blurry, jpeg artifacts, text, watermark, signature, logo, extra person, multiple girls, cropped, out of frame, extra fingers, missing fingers, fused fingers, bad hands, deformed hands, extra arms, extra legs, text, letters, signboard, sign, banner, label, japanese text, numbers, mirror, reflection, window, glass reflection, 2girls, male, crowd, people, bag, umbrella, coat, hat, witch hat, outdoors, snow, christmas tree, cat, animal, fire, extra hands, disembodied limb, disembodied hand, cork, stopper, pouring, liquid on body, wet clothes, bottle, cauldron, chinese text, korean text, kanji, hiragana, katakana, calligraphy</textarea></div><h2 id="sec5">必要なもの（ComfyUI）</h2><div class="ps-note">🧩 <b>カスタムノードは使っていません</b>。LoRA が無くても大丈夫（A のプロンプト）。ComfyUI の基本の画像生成（テキストから画像）に、ポジティブ・ネガティブを貼って、下の推奨値にするだけです。LoRA を使う人は「LoraLoaderModelOnly」を1つ足すだけ（B のプロンプト）。</div><table class="ps-vars" style="margin-top:12px"><tr><th>モデル</th><th>ファイル</th><th>置き場</th></tr><tr><td>Anima 系のモデル（本体）</td><td>お好きな Anima 系のモデル</td><td><code>models/diffusion_models</code></td></tr><tr><td>テキストエンコーダ</td><td>Anima と一緒に配られているもの</td><td><code>models/text_encoders</code></td></tr><tr><td>VAE</td><td>Anima と一緒に配られているもの</td><td><code>models/vae</code></td></tr></table><h2>推奨値</h2><table class="ps-vars"><tr><th>大きさ</th><td colspan="2">864×1536（縦長）</td></tr><tr><th>steps</th><td colspan="2">30</td></tr><tr><th>CFG</th><td colspan="2">4.5</td></tr><tr><th>sampler</th><td colspan="2">er_sde</td></tr><tr><th>scheduler</th><td colspan="2">beta</td></tr><tr><th>hires fix（任意）</th><td colspan="2">1.5 倍に拡大して denoise 0.4・同じ steps と CFG（試し焼きはこれ）</td></tr><tr><th>LoRA</th><td colspan="2">無くてOK（A のプロンプト）。自分のキャラの LoRA があれば B のプロンプトで</td></tr></table><h2 id="sec6">メモ</h2><ul class="ps-rules"><li>いちばん上の行（髪の色・長さ・目の色）だけ、あなたの子に合わせて書き換えてください。2行目から下（服・工房）は変えなくて大丈夫です。</li><li>縦長（864×1536）で、太ももから上の構図（cowboy shot）です。光る緑の薬の入った丸底フラスコを手に持って見つめ（alchemy, round-bottom flask, potion, glowing liquid, green liquid, holding flask, looking at object）、目をまるくして笑います（wide-eyed, smile, open mouth, blush, sparkle）。作例では3人とも、緑に光る薬の入った丸底フラスコを手に、目をまるくして笑いました。持ち方は子ごとに変わり、首を片手で持って底をもう片手で支える子、羽ペンといっしょに持つ子、両手で首を包んで木の鉢の上に掲げる子がいました。うしろの本棚とろうそくの灯りは3人とも写りました。</li><li>服は hooded capelet・capelet・long sleeves・frilled skirt。小物は earrings です。</li><li>場所は bookshelf・shelf・mortar (bowl)・quill・candle・indoors・night・magic、色は warm colors、ボケと光の粒は depth of field・bokeh・light particles です。</li><li>びんのラベルや本の背の字が出ないように text・label・letters を、ガラスの映り込みが出ないように glass reflection・mirror・reflection を、魔女の帽子をかぶらないように hat・witch hat を、火が大きく出ないように fire を、外や雪にならないように outdoors・snow を NEG に入れてあります。注ぐ絵にすると、フラスコの丸い胴や底から薬が出る壊れ方がくり返し出たので、注がせない（NEG pouring・bottle・cauldron・cork・stopper）・服に薬がかからない（NEG liquid on body・wet clothes）ようにしてあります。</li></ul><h2 id="sec7">配布ルール</h2><ul class="ps-rules"><li>⭕ プロンプトの改変は自由です。</li><li>⭕ 生成した画像は SNS に投稿して大丈夫です。</li><li>❌ プロンプト文そのものの転載・再配布・販売はしないでください。</li><li>❌ 自作のプロンプトだと名乗ることはやめてください。</li><li>❌ このページの作例画像の無断転載はしないでください。</li><li class="ps-rights">🚫 <b>アニメ・漫画・ゲームなどの版権キャラクター（著作権・商標のあるキャラ）、他の人のキャラクターやイラスト、実在の人物の写真を添付画像にして使うことは固く禁止します。</b>版権キャラの名前や、版権キャラの LoRA を入れて使うことも禁止です。</li><li>✅ 添付してよいのは、<b>自分で作ったキャラクター・自分が権利を持つ画像</b>（または権利者から使ってよいと言われた画像）だけです。</li><li>⚠ 生成した画像の使い方（投稿・公開など）は、使った人の責任でお願いします。権利の問題が起きても、配布者は責任を負えません。</li><li>💌 使ったら <b>#眠り姫プロンプト</b> を付けて見せてくれたら、とても嬉しいです（任意です）。</li></ul><p class="ps-bn-ask" style="margin:22px 0 0;font-size:.92rem">📚 これまでの配布プロンプト（バックナンバー）が見たい方は、直接ひみつの眠り姫までお気軽にお問い合わせください。</p></div>
 <p style="text-align:center;margin:34px 0 0"><a class="gate-btn ghost" href="../index.html" style="color:var(--ink-dim);border-color:var(--line)">部屋に戻る</a></p>
 </section>
 <p id="ps-views" hidden style="text-align:center;font-size:12px;opacity:.55;margin:22px 0 6px"></p>
